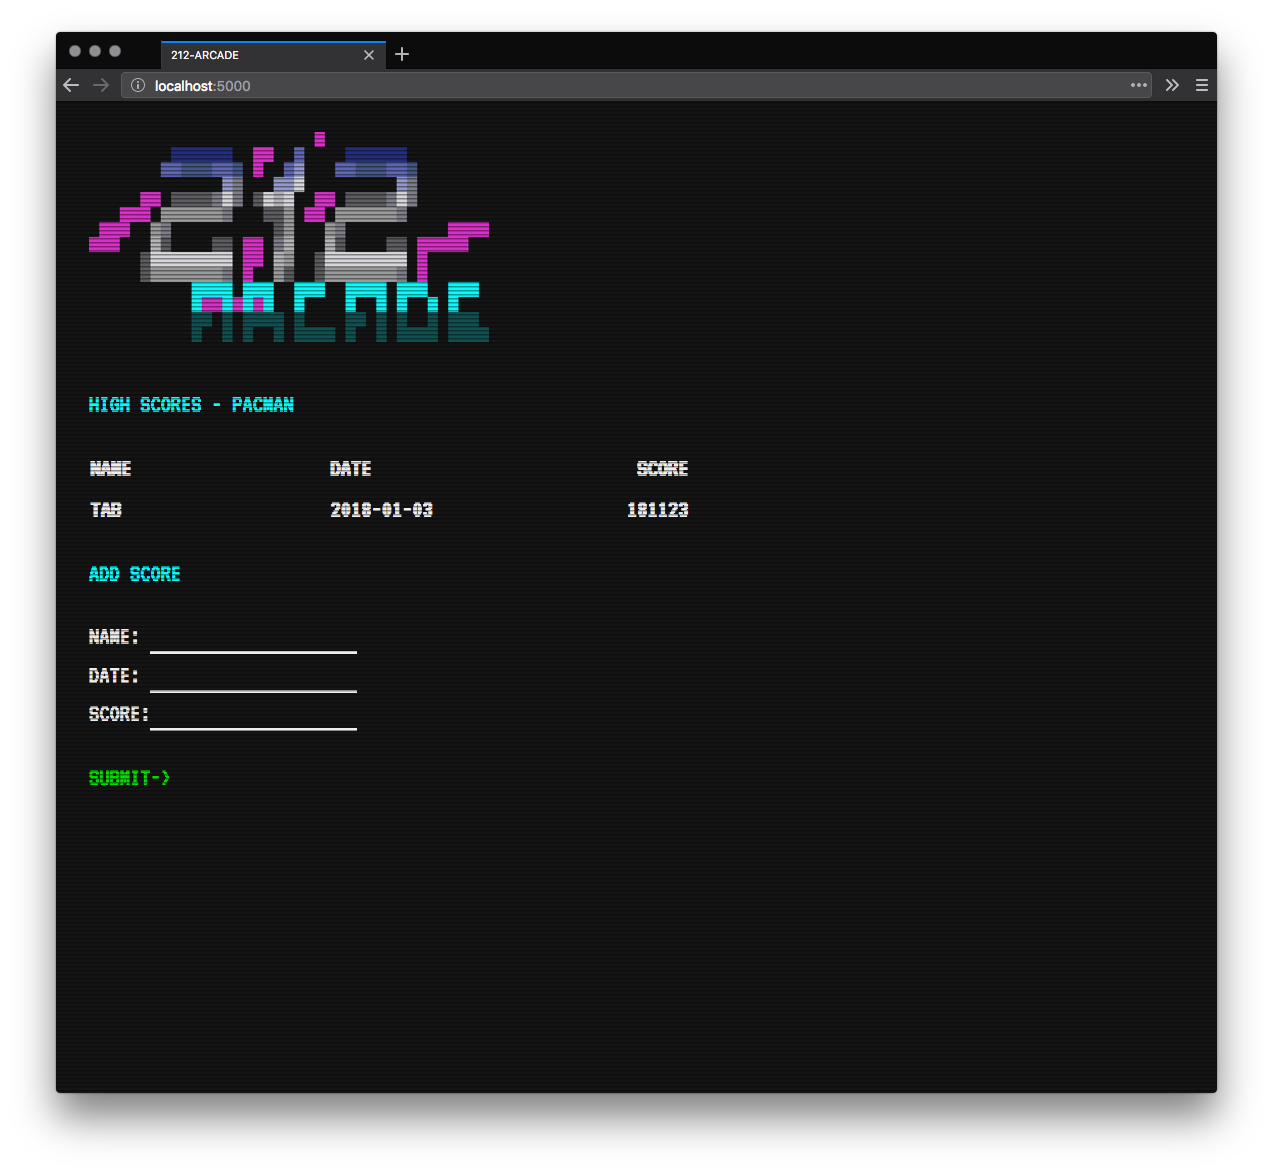
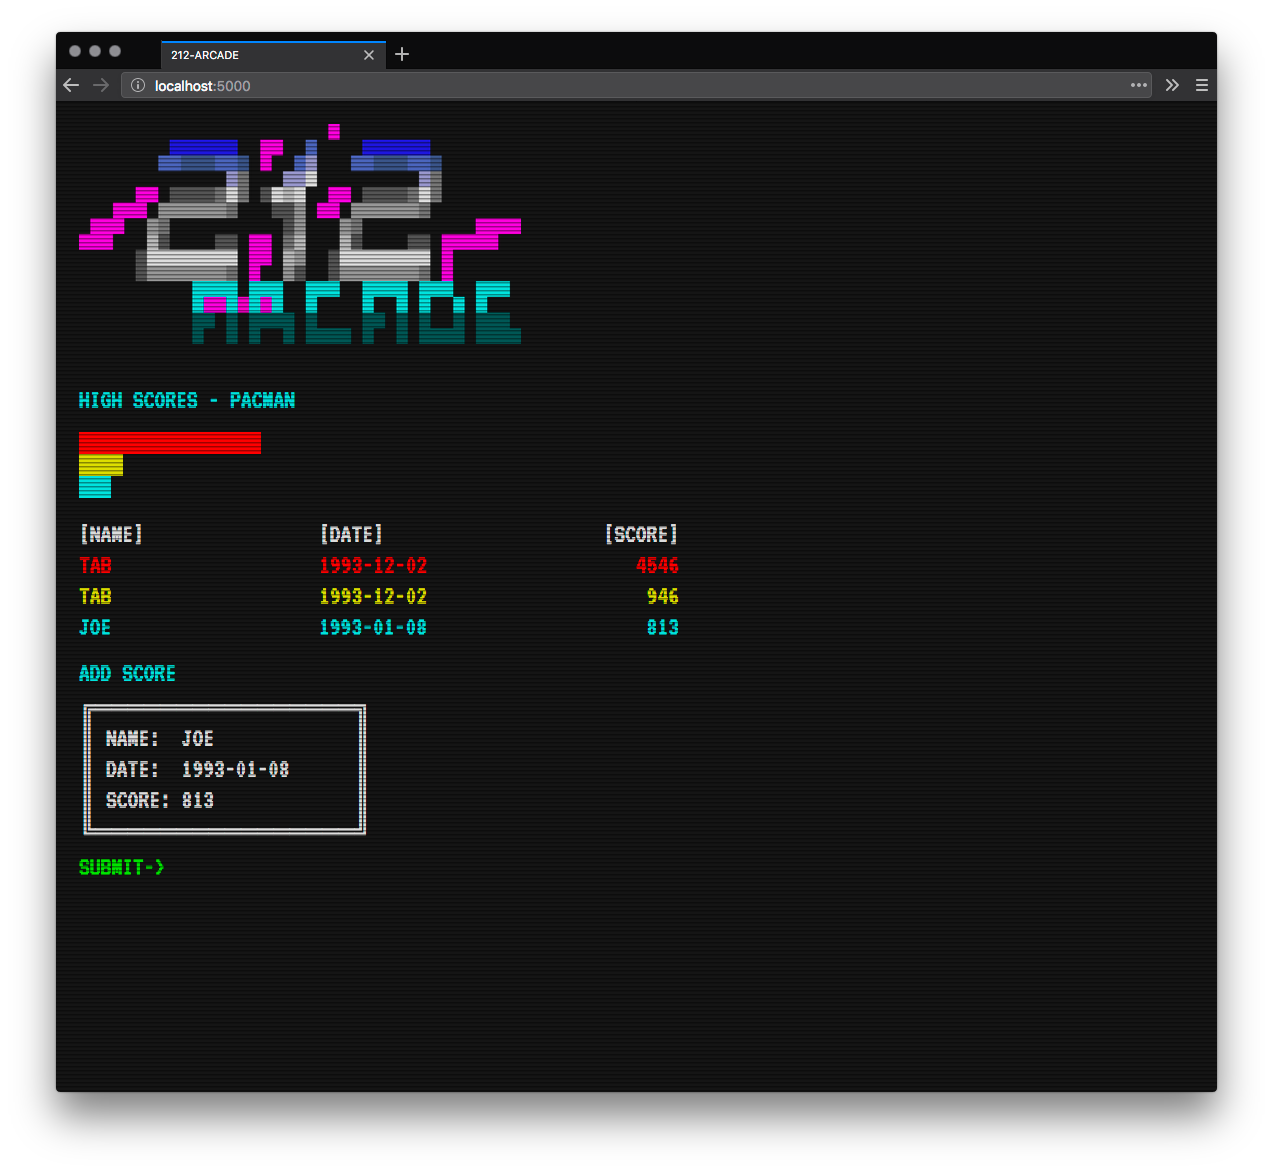
- add week directories

Changed region(s): [[0.0613, 0.3379, 0.337, 0.7679], [0.0613, 0.0922, 0.4289, 0.3072], [0.4595, 0.3686, 0.5515, 0.5529]]

diff --git a/week_01/static/screen.css b/week_01/static/screen.css
@@ -2,29 +2,35 @@
 
 * {
   margin: 0;
-  padding: 0
+  padding: 0;
+  /*outline: yellow 1px solid;*/
 }
 
 body {
   background-color: #151515;
   background-image: url('logo.gif');
-  background-position: 24px 17px;
+  background-position: 23px 22px;
   background-repeat: no-repeat;
-  background-size: 442px 238px;
-  color: #EEE;
+  background-size: 442px 220px;
+  color: #DDD;
   font-family: 'VT323', monospace;
-  font-size: 26px;
-  line-height: 33.8px;
-  letter-spacing: 1px;
+  font-size: 27px;
+  line-height: 31px;
   padding: 23px;
-  padding-top: 280px;
+  padding-top: 265px;
+}
+
+::selection {
+  background-color: #0D0;
+}
+::-moz-selection {
+  background-color: #0D0;
 }
 
 #scanlines {
-  background-image: url('grid.png');
-  background-size: 11.35px 17px;
-  //background-image: url('scanline.svg');
-  //background-size: 4px;
+  background-image: url('scanline.svg');
+  background-size: 4px;
+  /*background-image: url('grid.png'); background-size: 11.35px 22px;*/
   height: 100%;
   left: 0;
   pointer-events: none;
@@ -35,23 +41,33 @@ body {
 
 #container {
   max-width: 600px;
+  min-width: 300px;
 }
 
 h1 {
-  color: #0FF;
+  color: #0DD;
   font-size: inherit;
   font-weight: normal;
-  margin: 17px 0;
+  padding: 17px 0;
+}
+
+#chart {
+  padding-bottom: 22px;
+}
+
+#chart .bar {
+  height: 22px;
 }
 
 #highscores {
   border-collapse: collapse;
+  margin: -2px 0;
   width: 100%;
 }
 
 #highscores tr td,
 #highscores tr th {
-  font-weight: bold;
+  font-weight: normal;
   text-align: left;
   width: 30%;
 }
@@ -69,11 +85,14 @@ h1 {
 #addscore input {
   background-color: transparent;
   border: none;
-  border-bottom: 3px solid #EEE;
-  color: #EEE;
+  color: #DDD;
   font-family: 'VT323', monospace;
   font-size: inherit;
-  text-transform: uppercase;
+  width: 162px
+}
+
+#addscore {
+  margin-top: -14px;
 }
 
 #addscore a {
@@ -81,18 +100,16 @@ h1 {
   color: #0D0;
   cursor: pointer;
   display: inline-block;
-  padding: 0;
-  margin: 17px 0;
+  padding-top: 5px;
 }
 
-#chart {
-  margin-bottom: -9px;
-  margin-top: 10px;
+#addscore .alert {
+  animation: blink 1s step-start 0s infinite;
+  color: #D00;
 }
 
-#chart .bar {
-  background-color: red;
-  height: 17px;
+@keyframes blink {
+  50% { opacity: 0.0 }
 }
 
 @media only screen and (max-width: 600px) {

diff --git a/week_01/static/js.js b/week_01/static/js.js
@@ -1,0 +1,66 @@
+// variables
+
+colors = [
+  '#D00',
+  '#DD0',
+  '#0DD',
+  '#22D',
+  '#D0D'
+]
+
+scores = [
+ /* ['TAB','1991-03-03','12345'] */
+]
+
+topscore = 15000;
+
+// insert entry
+
+function insertEntry() {
+  scores.push(entry);
+
+  document.getElementById('highscores').innerHTML = '<tr><th>[NAME]</th><th>[DATE]</th><th>[SCORE]</th></tr>';
+  document.getElementById('chart').innerHTML = '';
+
+  for (i in scores) {
+    color = colors[i%colors.length];
+
+    var bar = document.createElement('div');
+    bar.className = 'bar';
+    bar.style.width = scores[i][2] / topscore * 100 + '%';
+    bar.style.backgroundColor = color;
+    document.getElementById('chart').appendChild(bar);
+
+    var row = document.createElement('tr');
+    row.style.color = color;
+    row.innerHTML += '<td>' + scores[i][0] + '</td>';
+    row.innerHTML += '<td>' + scores[i][1] + '</td>';
+    row.innerHTML += '<td>' + scores[i][2] + '</td>';
+    document.getElementById('highscores').appendChild(row);
+  }
+}
+
+// submit button
+
+document.querySelector('#addscore a').addEventListener('click', function() {
+  entry = [
+   document.getElementById('name').value,
+   document.getElementById('date').value,
+   document.getElementById('score').value
+  ]
+
+  document.querySelector('#addscore .alert').innerHTML = '';
+
+  if (entry[0] == '') {
+    document.querySelector('#addscore .alert').innerHTML = 'RE-ENTER NAME!';
+  }
+  else if (entry[1].search(/[0-9]{4}-[0-9]{2}-[0-9]{2}/) == -1) {
+    document.querySelector('#addscore .alert').innerHTML = 'MISSING DATE!';
+  }
+  else if (entry[2].search(/^[0-9]*$/) < 0) {
+    document.querySelector('#addscore .alert').innerHTML = 'MISSING SCORE!';
+  }
+  else {
+    insertEntry()
+  }
+})

diff --git a/week_01/templates/index.html b/week_01/templates/index.html
@@ -1,0 +1,59 @@
+<!DOCTYPE html>
+
+<html>
+
+  <head>
+    <meta charset="utf-8">
+    <title>212-ARCADE</title>
+    <meta name="description" content="High scores for arcade games." />
+    <meta name="viewport" content="width=device-width, initial-scale=1, shrink-to-fit=no">
+    <link rel="stylesheet" href="{{ url_for('static', filename='screen.css') }}" />
+  </head>
+
+  <body>
+    <div id="scanlines"></div>
+
+    <div id="container">
+
+      <h1>HIGH SCORES - PACMAN</h1>
+
+      <div id="chart">
+        <!--
+        <div class="bar" style="background-color:#D00; width:95%"></div>
+        -->
+      </div>
+
+      <table id="highscores">
+        <tr>
+          <th>[NAME]</th>
+          <th>[DATE]</th>
+          <th>[SCORE]</th>
+        </tr>
+        <!--
+        <tr style="color:#D00">
+          <td>TAB</td>
+          <td>1991-03-03</td>
+          <td>12345</td>
+        </tr>
+        -->
+      </table>
+
+      <h1>ADD SCORE</h1>
+
+      <form id="addscore">
+        ╔════════════════╗<br />
+        ║ NAME:&nbsp; <input id="name"  type="text" placeholder="..............." /> ║<br />
+        ║ DATE:&nbsp; <input id="date"  type="text" placeholder="YYYY-MM-DD....." /> ║<br />
+        ║ SCORE:      <input id="score" type="text" placeholder="..............." /> ║<br />
+        ╚════════════════╝<br />
+        <a>SUBMIT-&gt;</a>
+        <span class="alert"></span>
+      </form>
+
+    </div>
+
+    <script src="{{ url_for('static', filename='js.js') }}"></script>
+
+  </body>
+
+</html>

diff --git a/week_01/run.py b/week_01/run.py
@@ -1,0 +1,7 @@
+from flask import Flask, render_template
+
+app = Flask(__name__)
+
+@app.route('/')
+def index():
+    return render_template('index.html')
